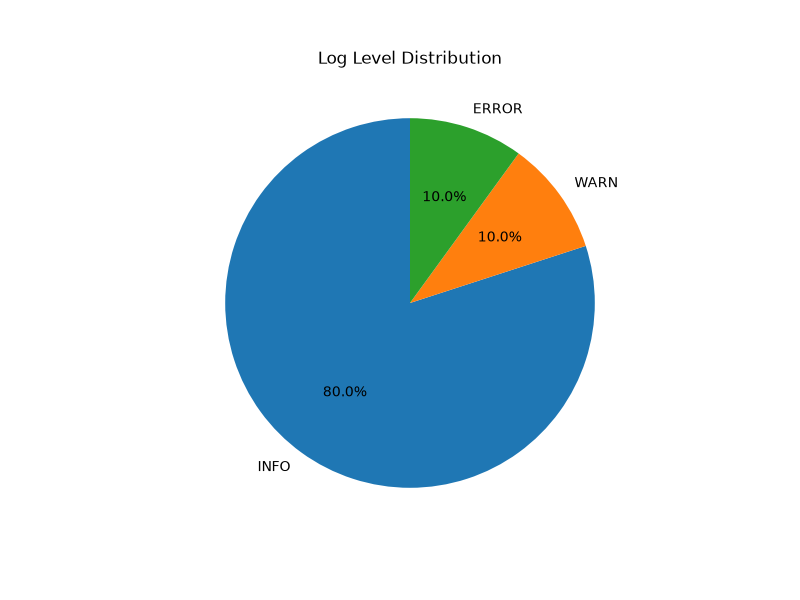
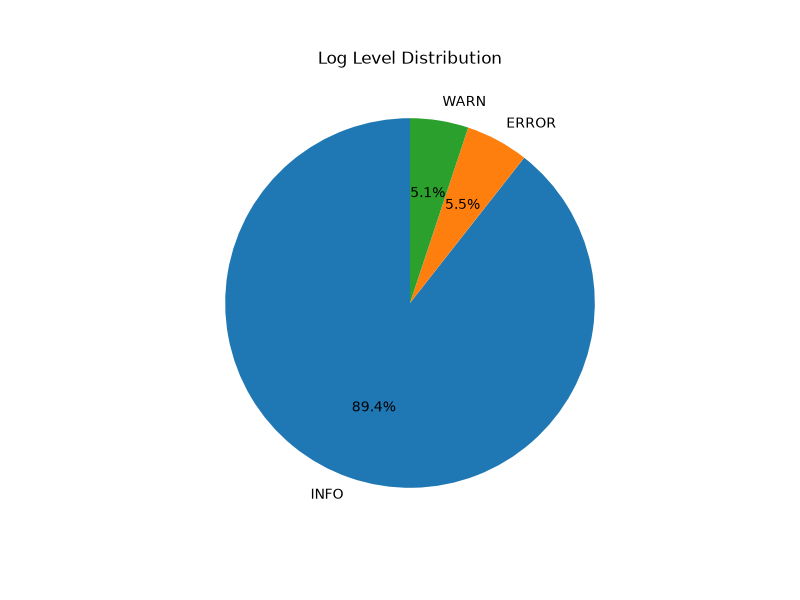
Refactor code structure for improved readability and maintainability

diff --git a/Data/generate_logs.py b/Data/generate_logs.py
@@ -9,7 +9,7 @@ action = ["login", "view_item", "add_cart", "pay"]
 error_codes = [404, 500, 502, 403]
 
 #生成日志条数
-total_lines = 20
+total_lines = 1000
 #写入文件，自动关闭文件回收资源
 with open("app.log", "w", encoding="utf-8") as f:
     for i in range(total_lines):
